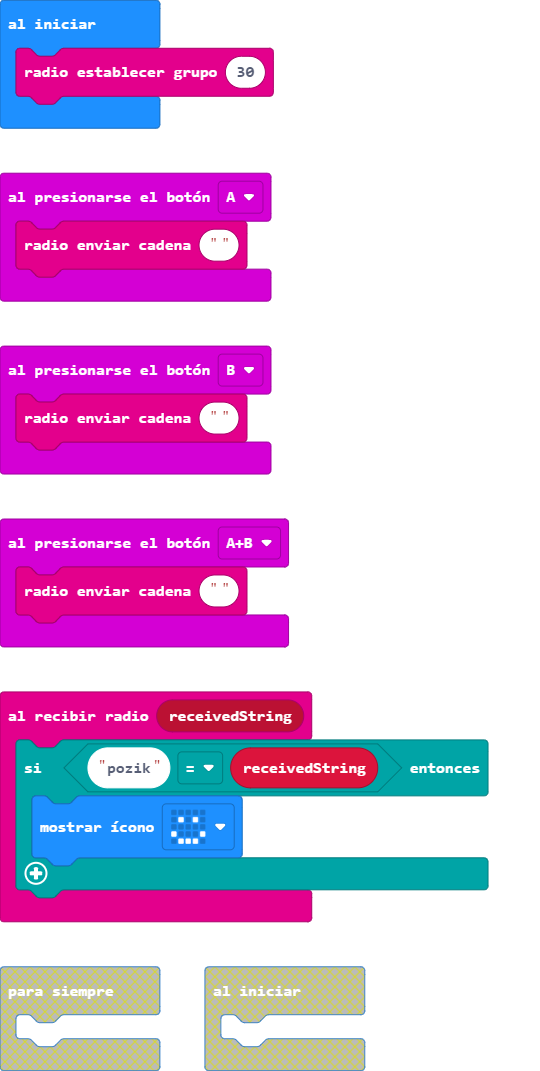
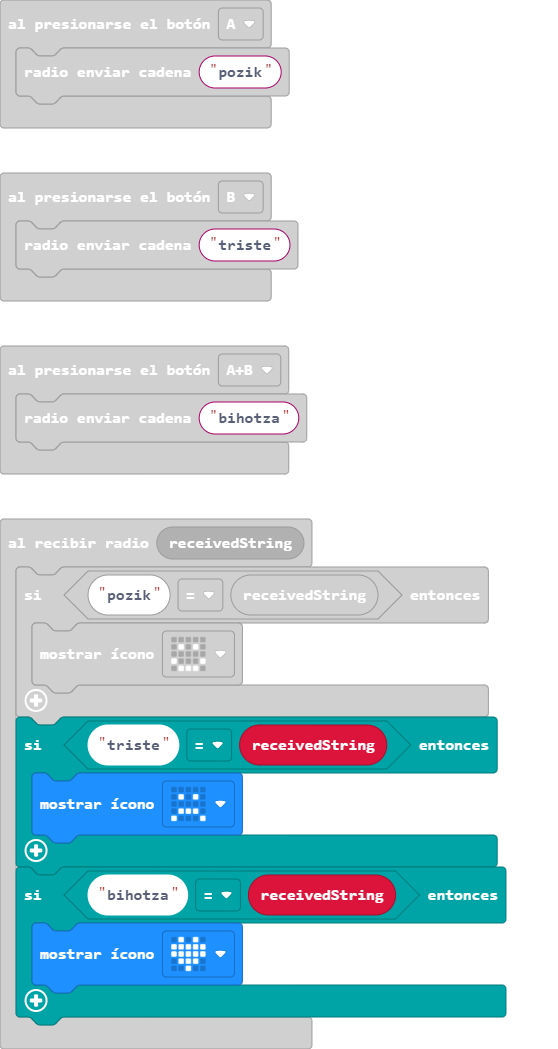
Actualizar main.blocks, main.ts

diff --git a/main.ts b/main.ts
@@ -1,15 +1,21 @@
 input.onButtonPressed(Button.A, function () {
-    radio.sendString("")
+    radio.sendString("pozik")
 })
 input.onButtonPressed(Button.AB, function () {
-    radio.sendString("")
+    radio.sendString("bihotza")
 })
 radio.onReceivedString(function (receivedString) {
     if ("pozik" == receivedString) {
         basic.showIcon(IconNames.Happy)
     }
+    if ("triste" == receivedString) {
+        basic.showIcon(IconNames.Sad)
+    }
+    if ("bihotza" == receivedString) {
+        basic.showIcon(IconNames.Heart)
+    }
 })
 input.onButtonPressed(Button.B, function () {
-    radio.sendString("")
+    radio.sendString("triste")
 })
 radio.setGroup(30)
